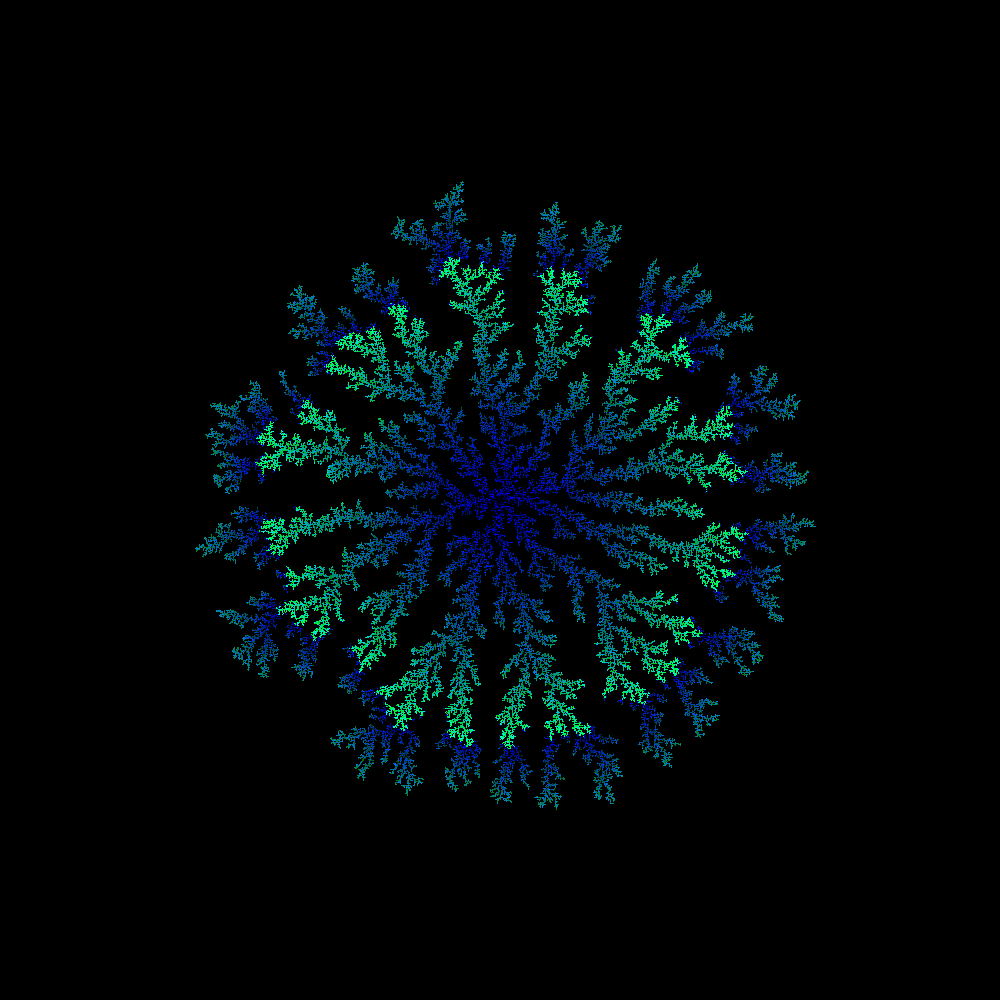
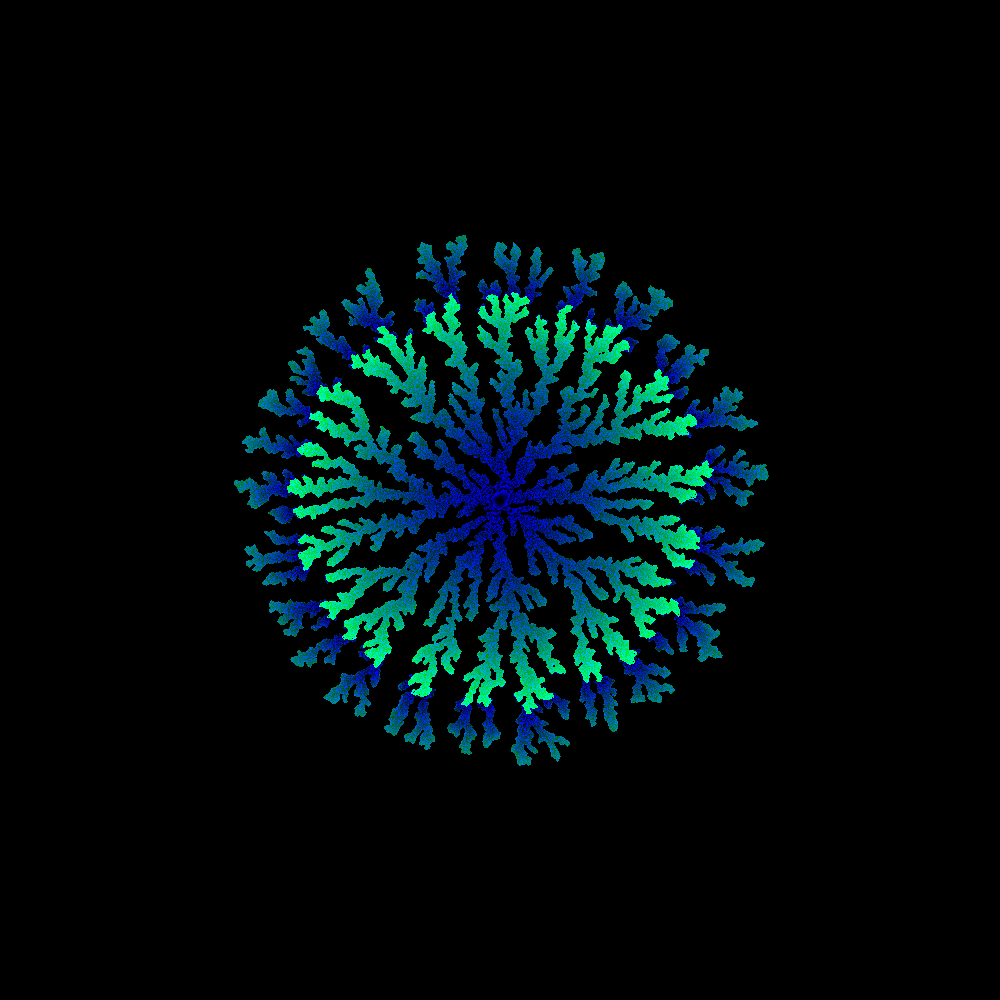
added non-working hole prevent

Changed region(s): [[0.186, 0.186, 0.806, 0.806]]

diff --git a/montecarlo-dla/src/edu/njit/math450/walker/RadialWalker.java b/montecarlo-dla/src/edu/njit/math450/walker/RadialWalker.java
@@ -88,6 +88,7 @@ public class RadialWalker extends Walker {
     public void walk(AdjMatrix space) {
         // increment the walk number
         walkNum++;
+        System.out.println("WalkNum: " + walkNum);
         //relocate the walker to a boundary
         reOriginate(space.size());
         //declare the projected Locale
@@ -103,16 +104,22 @@ public class RadialWalker extends Walker {
                 // update the space to reflect the walk number
                 Locale oldProj = new Locale(proj);
                 // settle until two consecutive projections are
-//                while (true) {
-//                    System.out.println("here");
-//                    proj = settle(proj, space);
-//                    System.out.println("proj i: " + proj.i + " proj j:" + proj.j);
-//                    if (proj.i == oldProj.i && proj.j == oldProj.j) {
-//                        break;
-//                    }
-//                    oldProj = new Locale(proj);
-//                }
-                proj = settle(proj, space);
+                while (true) {
+                    proj = settle(proj, space);
+                    if (proj.i == oldProj.i && proj.j == oldProj.j) {
+                        //System.out.println("We've found a consecutive settlement!");
+                        break;
+                    }
+                    oldProj = new Locale(proj);
+                }
+                // check to see if we've formed a hole
+                if (makesHole(proj, space)) {
+                    reOriginate(space.size());
+                    // don't stick
+                    //System.out.println("Continued!!!");
+                    continue;
+                }
+                //System.out.println("MADE IT PAST HOLE PREVENT!!!");
                 space.set(proj.i, proj.j, walkNum);
                 //calculate and truncate distance from the seed (euclidean norm)
                 int r = (int) distance(proj.j, proj.i, space.size()/2, space.size()/2);
@@ -147,7 +154,7 @@ public class RadialWalker extends Walker {
         prospect.j = settlement.j;
 
         // number of ties
-        int numTied = 0;
+        int numTied = 1;
 
         // scan the block for neighbors starting at top left
         for (int i = (proj.i - 1); i <= proj.i + 1 && i < space.size(); i++) {
@@ -161,15 +168,14 @@ public class RadialWalker extends Walker {
                     int numNeig = numNeig(1, prospect, space);
                     if (numNeig > maxNeig) {
                         // clear the ties count
-                        numTied = 0;
+                        numTied = 1;
                         maxNeig = numNeig;
                         settlement.i = prospect.i;
                         settlement.j = prospect.j;
                     } else if (numNeig == maxNeig) {
                         // handle all ties so far
                         numTied++;
-                        if (rand.nextDouble() < 1 / numTied) {
-                            maxNeig = numNeig;
+                        if (rand.nextInt(numTied) == 0) {
                             settlement.i = prospect.i;
                             settlement.j = prospect.j;
                         }

diff --git a/montecarlo-dla/src/edu/njit/math450/walker/Walker.java b/montecarlo-dla/src/edu/njit/math450/walker/Walker.java
@@ -9,12 +9,15 @@ import edu.njit.math450.matrix.*;
  */
 public abstract class Walker {
 
+    protected static int[] deltaRow = {0, -1, -1, -1, 0, 1, 1, 1};
+    protected static int[] deltaCol = {1, 1, 0, -1, -1, -1, 0, 1};
+
     protected class Locale {
         public int i, j;
 
         public Locale() {}
 
-        public Locale(Locale local) {
+        public Locale(Locale locale) {
             i = locale.i;
             j = locale.j;
         }
@@ -132,6 +135,29 @@ public abstract class Walker {
         }
         // return the number of neighbors
         return neighbors;
+    }
+
+    /**
+     * Checks if the given projection will form a hole on walker stick
+     * @param proj projected locale to check
+     * @param space adjacency matrix of the space
+     * @return true if a walker at proj will form a hole; false otherwise
+     */
+    protected Boolean makesHole(Locale proj, AdjMatrix space) {
+        // get the current state
+        int curState = space.get(proj.i + 1, proj.j + 1);
+        // initialize flip count
+        int flips = 0;
+        // look over each array (ALWAYS size 8)
+        for (int i = 0; i < 8; i++) {
+            if (curState != space.get(proj.i + deltaRow[i], proj.j + deltaCol[i])) {
+                flips++;
+                curState = space.get(proj.i + deltaRow[i], proj.j + deltaCol[i]);
+            }
+        }
+        // check to see if we've flipped 4 times which indicates a forming hole
+        return flips >= 4;
+
     }
 
     /**

diff --git a/montecarlo-dla/src/edu/njit/math450/dla/DLASimulation.java b/montecarlo-dla/src/edu/njit/math450/dla/DLASimulation.java
@@ -35,7 +35,12 @@ public class DLASimulation {
         int n = space.size();
         //place the seed (should be around (1/2)*(n, n)th entry)
         int seed = (int) n / 2;
-        space.set(seed, seed, 1);
+        int seedSize = 2;
+        for (int i = seed - seedSize / 2; i <= seed + seedSize / 2; i++) {
+            for (int j = seed - seedSize / 2; j <= seed + seedSize / 2; j++) {
+                space.set(i, j, 1);
+            }
+        }
         //traverse the space adding zeros to non-seed area
         /*
         for (int i = 0; i < n; i++) {

diff --git a/montecarlo-dla/src/edu/njit/math450/Main.java b/montecarlo-dla/src/edu/njit/math450/Main.java
@@ -25,7 +25,7 @@ public class Main {
         double C = .01;
         double L = 9;
 	    //Attempt walker simulation
-        Walker walker = new RadialWalker(oriSeed, walkSeed, 1,
+        Walker walker = new RadialWalker(oriSeed, walkSeed, 3,
                 buffer, A, B, C, L);//new DumbWalker(walkSeed, stickSeed);
         //Walker walker = new DumbWalker(walkSeed, walkSeed);
         //instantiate the walk space
